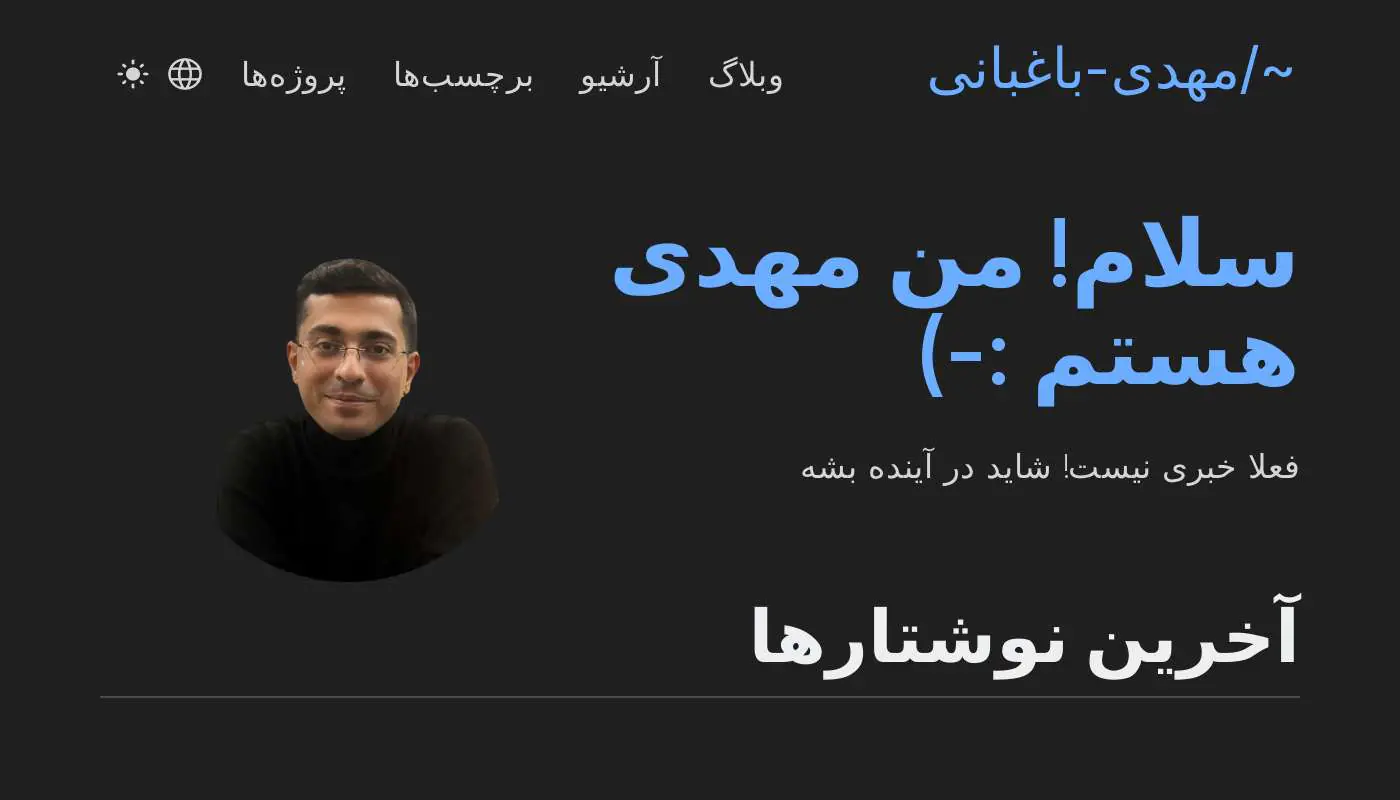
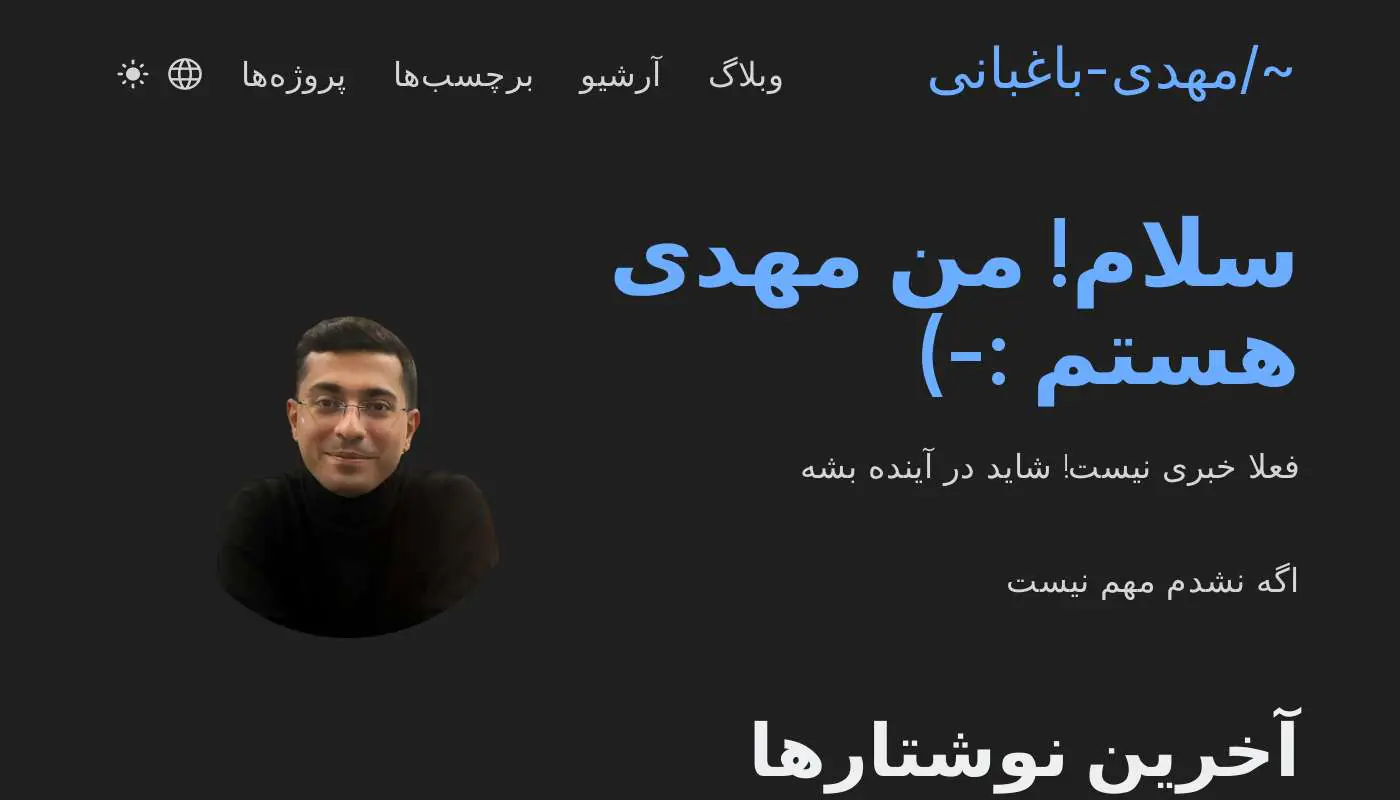
fix: precommit

diff --git a/content/_index.md b/content/_index.md
@@ -20,4 +20,3 @@ I writes about life, video games, movies, code, design, and more. I enjoy playin
 
 Welcome to my blog. ^_^ (perhaps it is also called my digital garden. 🌱)
 
-I'm also a nerd.

diff --git a/content/_index.fa.md b/content/_index.fa.md
@@ -11,3 +11,6 @@ social_media_card = "img/social_cards/fa.webp"
 +++
 
 فعلا خبری نیست! شاید در آینده بشه
+
+
+اگه نشدم مهم نیست
